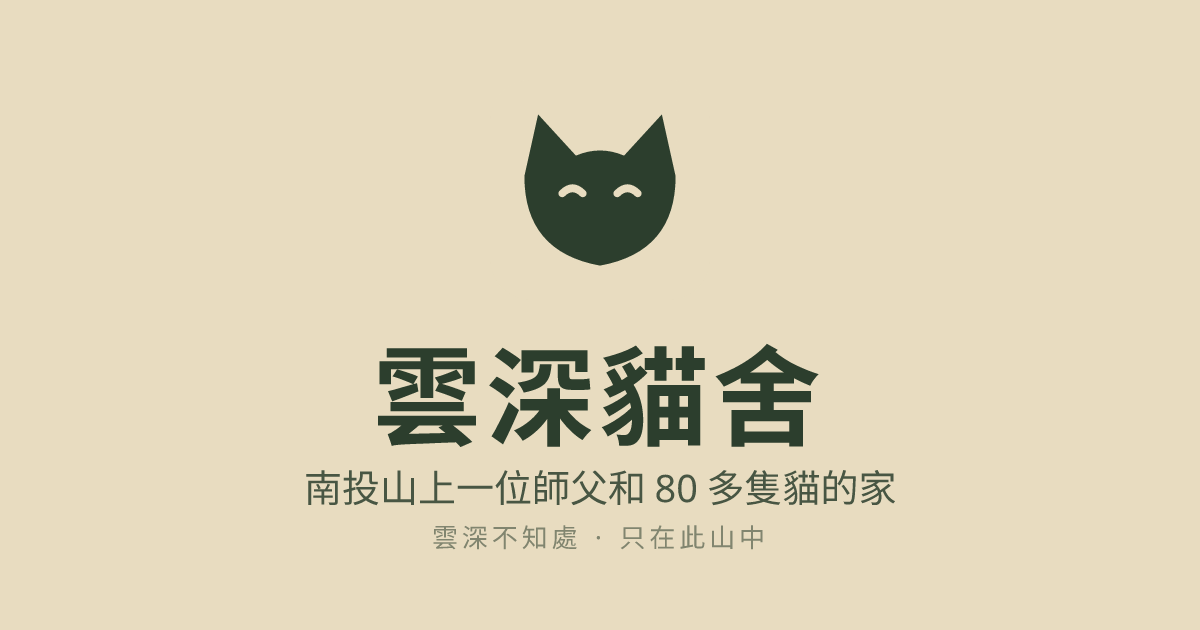
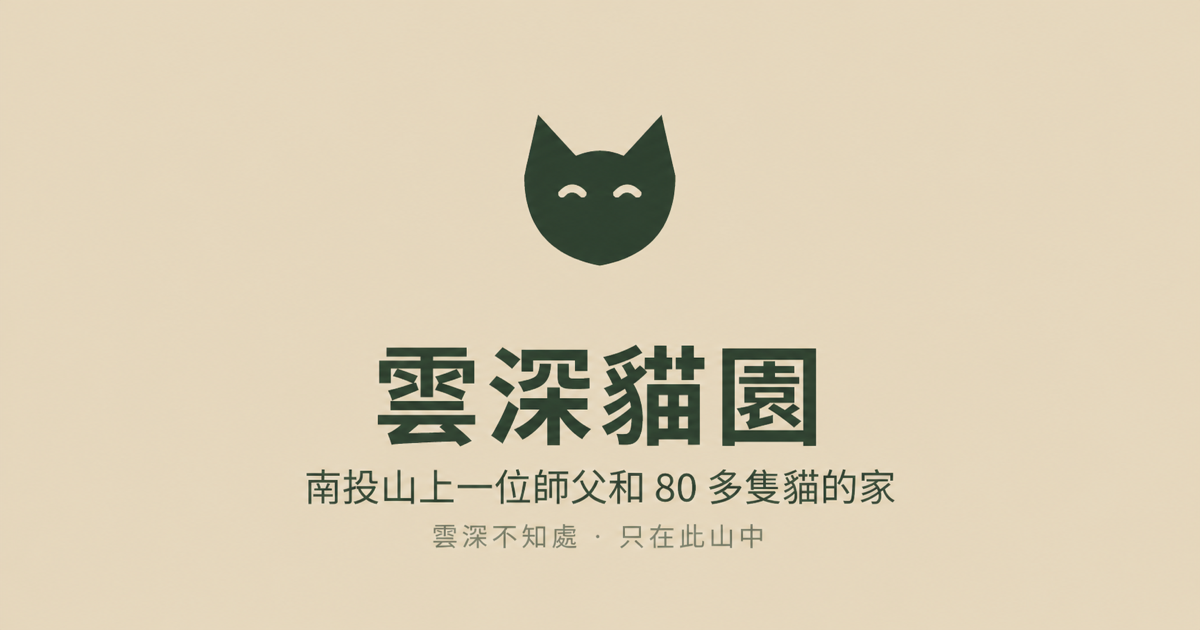
feat(brand): rename to 雲深貓園

Changed region(s): [[0.3083, 0.5429, 0.6783, 0.7238], [0.2467, 0.754, 0.74, 0.8746]]

diff --git a/app/layout.tsx b/app/layout.tsx
@@ -1,6 +1,7 @@
 import type { Metadata, Viewport } from "next";
 import Nav from "@/components/Nav";
 import Footer from "@/components/Footer";
+import { SOCIAL_IMAGE, SOCIAL_IMAGE_ALT } from "@/lib/social-image";
 import "./globals.css";
 
 const SITE_URL = "https://yunshenmao.com";
@@ -18,7 +19,6 @@ export const metadata: Metadata = {
   applicationName: SITE_NAME,
   keywords: [
     "雲深貓園",
-    "雲深貓舍",
     "貓咪認養",
     "南投貓認養",
     "免費認養",
@@ -50,10 +50,10 @@ export const metadata: Metadata = {
     locale: "zh_TW",
     images: [
       {
-        url: "/opengraph-image.png",
+        url: SOCIAL_IMAGE,
         width: 1200,
         height: 630,
-        alt: "雲深貓園 — 南投山上 80+ 隻待認養貓咪",
+        alt: SOCIAL_IMAGE_ALT,
       },
     ],
   },
@@ -61,7 +61,7 @@ export const metadata: Metadata = {
     card: "summary_large_image",
     title: SITE_NAME,
     description: "南投山上 80+ 隻待認養貓咪 — 一位師父在山上發下的願",
-    images: ["/opengraph-image.png"],
+    images: [SOCIAL_IMAGE],
   },
   robots: {
     index: true,
@@ -87,7 +87,7 @@ const organizationSchema = {
   alternateName: "Yun Shen Mao",
   url: SITE_URL,
   logo: `${SITE_URL}/android-chrome-512x512.png`,
-  image: `${SITE_URL}/opengraph-image.png`,
+  image: SOCIAL_IMAGE,
   description: DESCRIPTION,
   founder: {
     "@type": "Person",

diff --git a/app/support/page.tsx b/app/support/page.tsx
@@ -5,6 +5,7 @@ import { needCategories, supplyLink, type NeedItem } from "@/data/needs";
 import { oneTimeOptions, CURRENCY } from "@/data/support-plans";
 import SubscribePicker from "@/components/SubscribePicker";
 import CheckoutButton from "@/components/CheckoutButton";
+import { SOCIAL_IMAGE } from "@/lib/social-image";
 
 const FB_URL = "https://www.facebook.com/profile.php?id=61579639902271";
 
@@ -25,6 +26,7 @@ export const metadata: Metadata = {
       "三種方式陪山上走下去:月報訂閱、寄送物資、私訊師父。",
     url: "https://yunshenmao.com/support/",
     type: "article",
+    images: [SOCIAL_IMAGE],
   },
 };
 

diff --git a/app/story/page.tsx b/app/story/page.tsx
@@ -2,6 +2,7 @@ import Image from "next/image";
 import Link from "next/link";
 import type { Metadata } from "next";
 import { adopters } from "@/data/adopters";
+import { SOCIAL_IMAGE } from "@/lib/social-image";
 
 export const metadata: Metadata = {
   title: "我們的故事 — 道願師與南投山上的雲深貓園",
@@ -14,6 +15,7 @@ export const metadata: Metadata = {
       "從病床上的願到南投山上的貓園 — 一位師父用十幾年照顧 80 多隻貓、送養超過 500 隻的故事。",
     url: "https://yunshenmao.com/story/",
     type: "article",
+    images: [SOCIAL_IMAGE],
   },
 };
 

diff --git a/app/journal/page.tsx b/app/journal/page.tsx
@@ -2,6 +2,7 @@ import Link from "next/link";
 import type { Metadata } from "next";
 import journalData from "@/data/journal.json";
 import JournalPhotoGallery from "@/components/JournalPhotoGallery";
+import { SOCIAL_IMAGE } from "@/lib/social-image";
 
 const FB_URL = "https://www.facebook.com/profile.php?id=61579639902271";
 
@@ -29,6 +30,7 @@ export const metadata: Metadata = {
       "師父每天會更新物資、送養、貓咪日常 —— 讓您看到每一份善意最後變成了什麼。",
     url: "https://yunshenmao.com/journal/",
     type: "article",
+    images: [SOCIAL_IMAGE],
   },
 };
 

diff --git a/app/dev/page.tsx b/app/dev/page.tsx
@@ -1,6 +1,7 @@
 import Image from "next/image";
 import Link from "next/link";
 import type { Metadata } from "next";
+import { SOCIAL_IMAGE } from "@/lib/social-image";
 
 export const metadata: Metadata = {
   title: "關於開發者 — 從山上帶回三隻貓的人",
@@ -13,6 +14,7 @@ export const metadata: Metadata = {
       "雲深貓園網站是一位認養人下班時間做出來的。這裡是他與三隻貓的近況。",
     url: "https://yunshenmao.com/dev/",
     type: "profile",
+    images: [SOCIAL_IMAGE],
   },
 };
 

diff --git a/app/cats/page.tsx b/app/cats/page.tsx
@@ -2,6 +2,7 @@ import Image from "next/image";
 import Link from "next/link";
 import type { Metadata } from "next";
 import { cats } from "@/data/cats";
+import { SOCIAL_IMAGE } from "@/lib/social-image";
 
 export const metadata: Metadata = {
   title: "待認養貓咪 — 雲深貓園",
@@ -13,6 +14,7 @@ export const metadata: Metadata = {
     description: "南投山上 80+ 隻貓全部待認養。",
     url: "https://yunshenmao.com/cats/",
     type: "website",
+    images: [SOCIAL_IMAGE],
   },
 };
 

diff --git a/app/adopt/page.tsx b/app/adopt/page.tsx
@@ -1,5 +1,6 @@
 import Link from "next/link";
 import type { Metadata } from "next";
+import { SOCIAL_IMAGE } from "@/lib/social-image";
 
 const FB_URL = "https://www.facebook.com/profile.php?id=61579639902271";
 
@@ -26,6 +27,7 @@ export const metadata: Metadata = {
     description: "想認養山上 80+ 隻毛孩之一？填表單與師父約上山。",
     url: "https://yunshenmao.com/adopt/",
     type: "website",
+    images: [SOCIAL_IMAGE],
   },
 };
 

diff --git a/lib/social-image.ts b/lib/social-image.ts
@@ -1,0 +1,3 @@
+export const SOCIAL_IMAGE =
+  "https://yunshenmao.com/opengraph-image.png?v=20260728";
+export const SOCIAL_IMAGE_ALT = "雲深貓園 — 南投山上 80+ 隻待認養貓咪";
